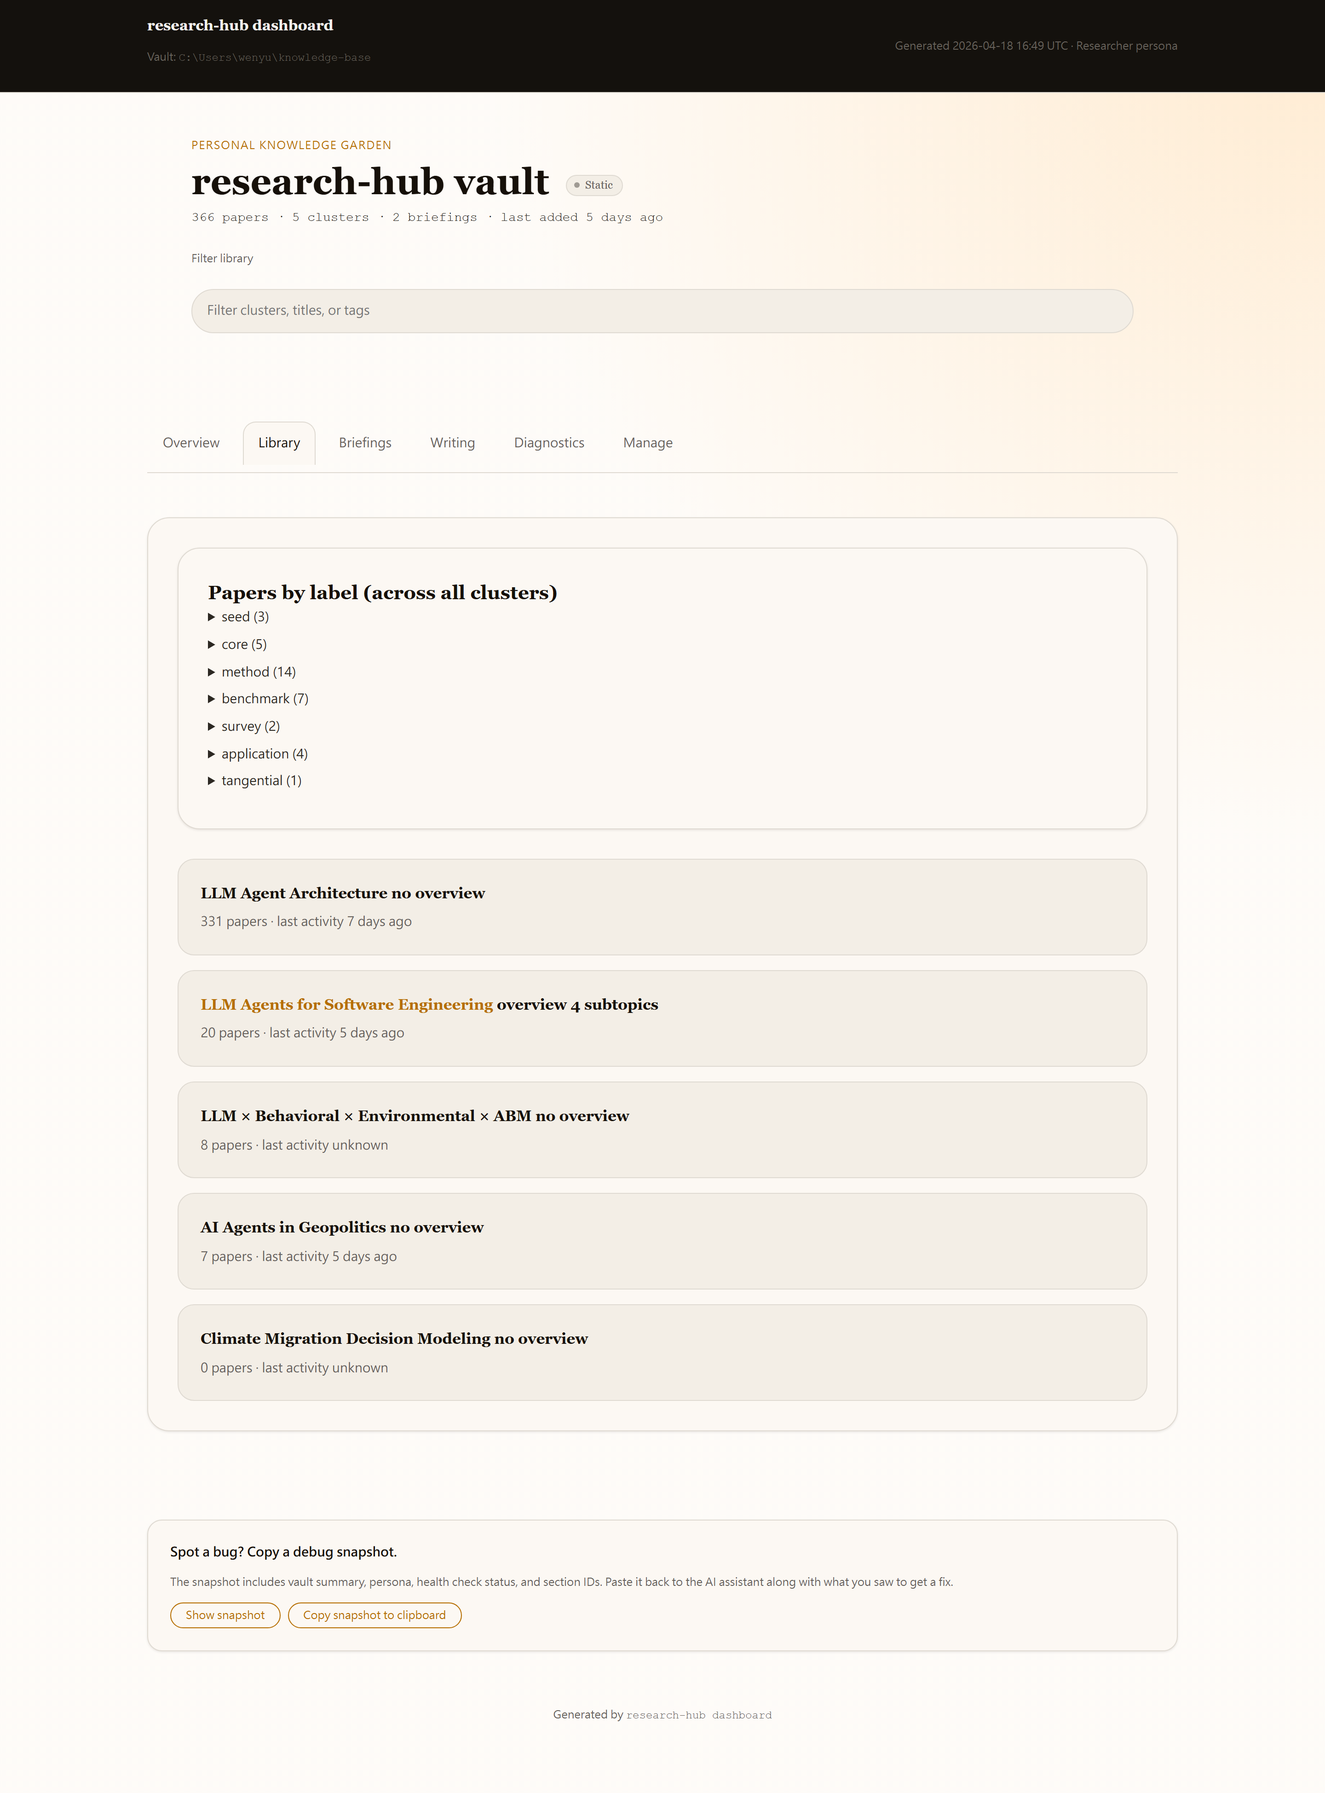
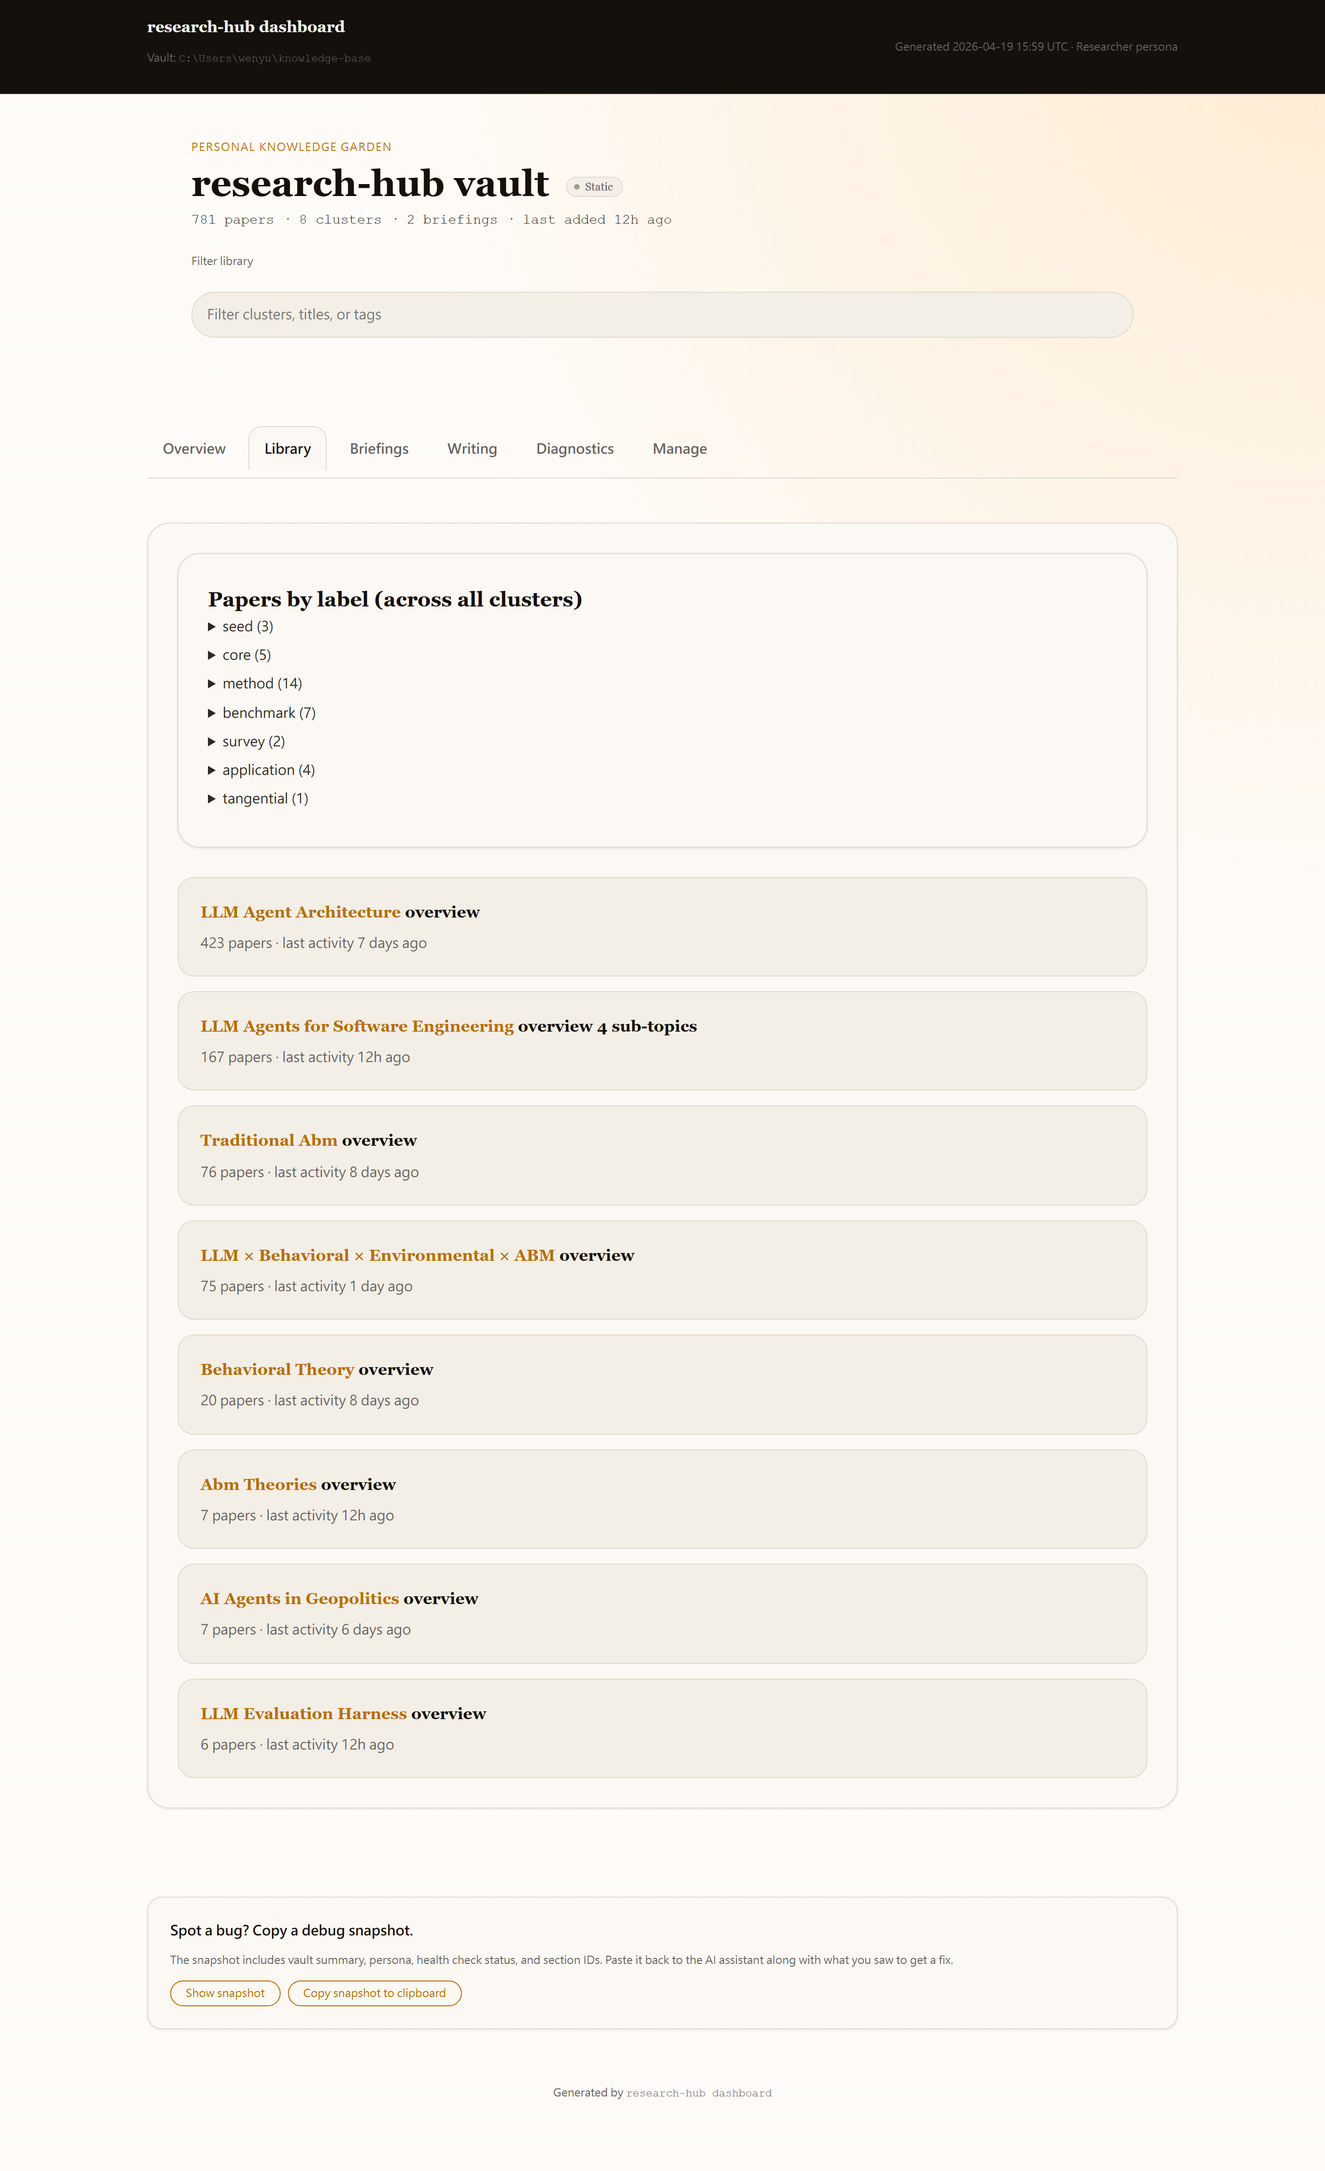
docs: redesign README with harness-engineering as hero example
Replaces generic 'what this is' opening with a concrete 10-minute story:
build the llm-evaluation-harness cluster (6 papers) from scratch,
generate 10 crystals + 14 entities + 12 claims + 7 methods, then query
via Claude Desktop MCP.

Refreshed:
- Lead with the story, not the abstract
- Moved 'crystals are not RAG' from v0.28 teaser to concrete evidence
  pointing at hub/llm-evaluation-harness/crystals/
- Added 'structured memory layer' as a first-class feature (v0.36 was
  hidden in architecture docs)
- Added 4-persona install table inline (was buried at bottom)
- Added cluster integrity + rebind as feature 5
- Added multi-OS CI badge
- 3 refreshed dashboard screenshots (researcher overview + analyst
  overview + library tab) showing the 8-cluster + harness-engineering
  state

Target audience: researcher who finds research-hub on PyPI/HN and gives
it 60 seconds to decide if it's real.

diff --git a/README.md b/README.md
@@ -1,42 +1,52 @@
 # research-hub
 
+> **Build your research cluster once. Ask AI about it thousands of times.**
 > Zotero + Obsidian + NotebookLM, wired together for AI agents.
 
 [![PyPI](https://img.shields.io/pypi/v/research-hub-pipeline.svg)](https://pypi.org/project/research-hub-pipeline/)
 [![Tests](https://img.shields.io/badge/tests-1423%20passing-brightgreen.svg)](docs/audit_v0.41.md)
 [![Python](https://img.shields.io/badge/python-3.10%2B-blue.svg)](pyproject.toml)
 [![License: MIT](https://img.shields.io/badge/license-MIT-green.svg)](LICENSE)
+[![CI: Linux · macOS · Windows](https://img.shields.io/badge/CI-Linux%20%C2%B7%20macOS%20%C2%B7%20Windows-blue)](.github/workflows/ci.yml)
 
 繁體中文說明 → [README.zh-TW.md](README.zh-TW.md)
 
-![Dashboard Overview](docs/images/dashboard-overview.png)
+![Dashboard Overview](docs/images/dashboard-overview-researcher.png)
 
 ---
 
-## What this is
+## The 10-minute story
 
-A CLI + MCP server that does three things at once:
+Say you want to get up to speed on **"harness engineering for LLM agents"** — a subfield that barely existed 6 months ago. Traditional workflow: search arXiv, skim abstracts, manually note key claims, fight Obsidian, occasionally wish you had a RAG. 2 hours.
 
-1. **Ingest** academic papers into Zotero (citations) + Obsidian (structured notes) + NotebookLM (briefings) — one command.
-2. **Organize** papers into clusters, sub-topics, and an Obsidian graph coloured by research label.
-3. **Serve** 60 MCP tools so Claude Code / Codex / any MCP-compatible AI can drive the whole thing.
+research-hub workflow:
 
-Built for PhD students and research teams who already use AI agents daily and don't want to context-switch between six tabs.
+```bash
+research-hub clusters new --query "LLM evaluation harness" --slug llm-evaluation-harness
+research-hub search "language model evaluation harness" --to-papers-input \
+    --cluster llm-evaluation-harness > papers.json
+research-hub ingest --cluster llm-evaluation-harness --no-verify
+```
 
-## Source code vs vault
+3 minutes later your vault has 6 key papers with structured notes. 2 more minutes: generate the AI summary layer (**crystals**) and the structured entity/claim registry (**memory**):
 
-research-hub has two separate locations on your computer. This is intentional:
+```bash
+research-hub crystal emit --cluster llm-evaluation-harness > prompt.md
+# (paste prompt to Claude/GPT, save response as crystals.json)
+research-hub crystal apply --cluster llm-evaluation-harness --scored crystals.json
 
-| | Source code | Vault |
-|---|---|---|
-| **What** | The Python package + CLI | Your research data |
-| **Where** | `site-packages/research_hub/` (managed by pip) | `~/knowledge-base/` (default, you choose during `init`) |
-| **Contains** | CLI, MCP server, dashboard renderer | Paper notes, Obsidian graph, crystals, Zotero sync |
-| **Shared?** | Yes — same package for every user | No — each user has their own vault |
+research-hub memory emit  --cluster llm-evaluation-harness > mem-prompt.md
+research-hub memory apply --cluster llm-evaluation-harness --scored memory.json
+```
 
-After `pip install`, run `research-hub init` to create your vault. If you already have an Obsidian vault, point `init` at it — research-hub adds its folders alongside your existing notes without overwriting anything.
+Now open Claude Desktop and ask:
 
-Run `research-hub where` at any time to see exactly where your config and vault live.
+> **You:** "What's the current SOTA in LLM evaluation harness?"
+> **Claude (via MCP):** calls `read_crystal("llm-evaluation-harness", "sota-and-open-problems")` → gets a pre-written 180-word answer with paper citations. **~1 KB read, 0 abstracts fetched at query time.**
+
+That pre-written answer is a **crystal**. You paid the reasoning cost once; every subsequent question is ~1 KB of cached analysis. See [`hub/llm-evaluation-harness/crystals/`](hub/llm-evaluation-harness/crystals/) in your vault for the 10 canonical Q&As generated above.
+
+---
 
 ## What makes it different
 
@@ -44,61 +54,74 @@ Run `research-hub where` at any time to see exactly where your config and vault 
 
 Every RAG system, including Karpathy's "LLM wiki", still assembles context at query time. research-hub's answer: **store the AI's reasoning, not the inputs**.
 
-For each research cluster, you generate ~10 canonical Q→A "crystals" once (via emit/apply, using any LLM you like). When an AI agent asks "what's the SOTA in X?", it reads a pre-written 100-word paragraph — not 20 paper abstracts.
+For each cluster you generate ~10 canonical Q→A crystals once, using any LLM you like. When an AI agent later asks "what's the SOTA in X?", it reads a pre-written paragraph — not 20 paper abstracts. **Token cost per query: ~1 KB (crystal read) vs ~30 KB (cluster digest). 30× compression.**
 
-```bash
-research-hub crystal emit --cluster llm-agents-software-engineering > prompt.md
-# Feed prompt.md to Claude/GPT/Gemini, save answer as crystals.json
-research-hub crystal apply --cluster llm-agents-software-engineering --scored crystals.json
-```
-
-Token cost per cluster-level query: **~1 KB** (crystal read) vs ~30 KB (cluster digest). 30× compression without losing quality, because the quality was pre-computed.
+Because the quality was pre-computed, it doesn't degrade at query time. See the [harness-engineering example crystals](hub/llm-evaluation-harness/crystals/) — one folder, 10 Q&As answering "what is this field?", "what are the main threads?", "where do experts disagree?", "what's SOTA?", etc.
 
 [→ Why this is not RAG](docs/anti-rag.md)
 
-### 2. Live dashboard with direct execution (v0.27)
+### 2. Structured memory layer — entities, claims, methods (v0.36)
+
+Crystals store prose. **Memory** stores the underlying structure: named entities (benchmarks, models, concepts), typed claims with confidence + supporting papers, and method taxonomies. For the harness cluster:
+
+```
+hub/llm-evaluation-harness/memory.json
+├── 14 entities  (vla-eval, SafeHarness, M*, LIBERO, SEC-bench, ...)
+├── 12 claims    ("Harness is locus of progress", "Specialized beats generic +22%", ...)
+└── 7 methods    (reflective code evolution, lifecycle-integrated defense, ...)
+```
+
+AI agents query entities via `list_entities`, claims via `list_claims(min_confidence="high")`, methods via `list_methods`. No RAG over prose — structured lookup over structured data.
+
+### 3. 4 personas, 1 codebase, dashboard adapts (v0.38)
+
+Same vault, 4 rendered dashboards:
+
+| Persona | Install | Dashboard vocabulary | Hidden tabs |
+|---|---|---|---|
+| **Researcher** (PhD STEM, Zotero) | `pip install research-hub-pipeline[playwright,secrets]` | Cluster / Crystal / Paper / Citation graph | (none) |
+| **Humanities** (Zotero, quote-heavy) | `pip install research-hub-pipeline[playwright,secrets]` | Theme / Synthesis / Source | (none) |
+| **Analyst** (industry, no Zotero) | `pip install research-hub-pipeline[import,secrets]` | Topic / AI Brief / Document | Diagnostics, Bind-Zotero |
+| **Internal KM** (lab / company) | `pip install research-hub-pipeline[import,secrets]` | Project area / AI Brief / Document | Diagnostics, Bind-Zotero |
+
+Side-by-side screenshots: [`docs/personas.md`](docs/personas.md). [Your first 10 minutes guide →](docs/first-10-minutes.md)
+
+### 4. Live dashboard with direct execution (v0.27)
 
 ```bash
 research-hub serve --dashboard
 ```
 
-Opens a localhost HTTP dashboard at `http://127.0.0.1:8765/`. Every Manage-tab button **directly executes** the CLI command instead of copying to clipboard. Vault changes push to the browser via Server-Sent Events. Fallback to static clipboard mode when the server isn't running.
+Localhost HTTP dashboard at `http://127.0.0.1:8765/`. Every Manage-tab button **directly executes** the CLI command. Vault changes push via Server-Sent Events. Fallback to static clipboard mode when the server isn't running.
 
-![Live dashboard](docs/images/dashboard-manage-live.png)
+### 5. Cluster integrity + 100% orphan coverage (v0.37 + v0.39)
 
-### 3. Obsidian graph auto-coloured by label (v0.27)
-
-```bash
-research-hub vault graph-colors --refresh
-```
-
-Writes 14 colour groups to `.obsidian/graph.json`: 5 per cluster path + 9 per paper label (`seed`, `core`, `method`, `benchmark`, `survey`, `application`, `tangential`, `deprecated`, `archived`). Every `research-hub dashboard` run auto-refreshes them. Open Obsidian Graph View — your vault is visually structured by meaning, not just file tree.
-
-![Obsidian Graph coloured by label](docs/images/obsidian-graph.png)
-
-### 4. Sub-topic-aware Library + citation-graph cluster split (v0.27)
-
-Big clusters (331 papers?) don't render as a flat list anymore. They're grouped by sub-topic, each expandable. And if your cluster has no sub-topics yet:
+Papers drift, rebind v2 catches it. On the maintainer's 1063-orphan vault: 33% → **100% coverage** via 8-heuristic chain + auto-create-from-folder proposals.
 
 ```bash
-research-hub clusters analyze --cluster my-big-cluster --split-suggestion
+research-hub doctor                       # catches 12+ classes of drift
+research-hub clusters rebind --emit       # proposes 80%+ assignments
+research-hub clusters rebind --apply report.md --auto-create-new
 ```
 
-Uses Semantic Scholar citation graph + networkx community detection to suggest 3-8 coherent sub-topics. Writes a markdown report you review before running `topic apply-assignments`.
-
-![Library tab with sub-topics](docs/images/dashboard-library-subtopic.png)
+[→ 6 failure modes × 4 personas mitigation matrix](docs/cluster-integrity.md)
 
 ---
 
 ## Install
 
 ```bash
-pip install research-hub-pipeline
-research-hub init              # interactive config + vault layout
+# Researcher / Humanities (use Zotero + NotebookLM)
+pip install research-hub-pipeline[playwright,secrets]
+
+# Analyst / Internal KM (no Zotero, import local files)
+pip install research-hub-pipeline[import,secrets]
+
+research-hub init              # 4-option interactive persona prompt
 research-hub serve --dashboard # opens browser
 ```
 
-Python 3.10+. No OpenAI/Anthropic API key required — research-hub is provider-agnostic (all AI generation uses emit/apply pattern; you feed prompts to your own AI).
+Python 3.10+. **No OpenAI/Anthropic API key required** — research-hub is provider-agnostic (all AI generation uses emit/apply pattern; you feed prompts to your own AI).
 
 ## For Claude Code / Claude Desktop users
 
@@ -115,34 +138,15 @@ Add to `claude_desktop_config.json`:
 }
 ```
 
+60 MCP tools cover: paper ingest, cluster CRUD, labels, quotes, draft composition, citation graph, NotebookLM, crystal generation, fit-check, autofill, cluster memory, cluster rebind workflows.
+
 Then talk to Claude:
 
-> "Claude, add arxiv 2310.06770 to a new cluster called LLM-SE"
-> "Claude, generate crystals for the LLM-SE cluster"
-> "Claude, what's this cluster about?" → Claude calls `list_crystals` + `read_crystal` → gets the pre-written 100-word answer
+> "Claude, what's in my llm-evaluation-harness cluster?" → `read_crystal("what-is-this-field")` → 180-word answer
+> "Claude, which claims have high confidence?" → `list_claims(cluster="llm-evaluation-harness", min_confidence="high")` → 10 structured claims with paper refs
+> "Claude, add arxiv 2310.06770 to LLM-SE cluster" → `add_paper(...)` → Zotero + Obsidian + NotebookLM entries
 
-60 MCP tools cover: paper ingest, cluster CRUD, labels, quotes, draft composition, citation graph, NotebookLM, crystal generation, fit-check, autofill, cluster memory, and cluster rebind workflows.
-
-## Quickstart (5 commands)
-
-```bash
-# 1. Initialize vault
-research-hub init
-
-# 2. Ingest one paper
-research-hub add 10.48550/arxiv.2310.06770 --cluster llm-agents
-
-# 3. Open live dashboard
-research-hub serve --dashboard
-
-# 4. Generate crystals once you have a few papers
-research-hub crystal emit --cluster llm-agents > prompt.md
-# (feed prompt.md to your AI, save response as crystals.json)
-research-hub crystal apply --cluster llm-agents --scored crystals.json
-
-# 5. Ask your AI questions — it reads crystals, not papers
-# (via Claude Desktop MCP, or any MCP-compatible client)
-```
+---
 
 ## Status
 
@@ -155,17 +159,17 @@ research-hub crystal apply --cluster llm-agents --scored crystals.json
 
 ## Architecture docs
 
-- [MCP tools reference](docs/mcp-tools.md) — all 50+ tools categorized + signatures
+- [Your first 10 minutes](docs/first-10-minutes.md) — guided tour for each of the 4 personas
+- [User personas](docs/personas.md) — 4 persona profiles with per-persona feature matrix
+- [Cluster integrity](docs/cluster-integrity.md) — 6 failure modes + mitigation matrix across all 4 personas
+- [MCP tools reference](docs/mcp-tools.md) — all 60 tools categorized + signatures
 - [Example Claude Desktop flow](docs/example-claude-mcp-flow.md) — worked example: ingest → crystallize → query
 - [Import folder](docs/import-folder.md) — local file ingest for analyst persona (PDF/DOCX/MD/TXT/URL)
 - [Anti-RAG crystals](docs/anti-rag.md) — why pre-computed Q→A beats retrieval
 - [Upgrade guide](UPGRADE.md) — migrating from older versions
-- [Your first 10 minutes](docs/first-10-minutes.md) — guided tour for each of the 4 personas
-- [User personas](docs/personas.md) — 4 persona profiles (PhD STEM / industry / humanities / internal KM) with per-persona feature matrix
-- [Cluster integrity](docs/cluster-integrity.md) — 6 failure modes + mitigation matrix across all 4 personas
-- [Task-level workflows](docs/task-workflows.md) — v0.33+ 5 MCP wrappers (ask/brief/sync/compose/collect) that collapse 3-4 call sequences into 1
-- [Screenshot workflow](docs/screenshot-workflow.md) — re-render any dashboard tab via `dashboard --screenshot` CLI
-- [Audit reports](docs/) — `audit_v0.26.md` … `audit_v0.34.md`
+- [Task-level workflows](docs/task-workflows.md) — v0.33+ 5 MCP wrappers (ask/brief/sync/compose/collect)
+- [Screenshot workflow](docs/screenshot-workflow.md) — re-render any dashboard tab
+- [Audit reports](docs/) — `audit_v0.26.md` … `audit_v0.41.md`
 - [NotebookLM setup](docs/notebooklm.md) — CDP attach flow + troubleshooting
 - [Papers input schema](docs/papers_input_schema.md) — ingestion pipeline reference
 
@@ -173,29 +177,19 @@ research-hub crystal apply --cluster llm-agents --scored crystals.json
 
 | Stage | Command | What it does |
 |---|---|---|
-| **Init** | `init` / `doctor` | First-time config + health check |
+| **Init** | `init` / `doctor` | First-time config + health check (doctor has 12+ checks, `--autofix` for mechanical backfills) |
 | **Find** | `search` / `verify` / `discover new` | Multi-backend paper search + DOI resolution + AI-scored discovery |
-| **Ingest** | `add` / `ingest` | One-shot or bulk paper ingest into Zotero + Obsidian |
-| **Organize** | `clusters new/list/show/bind/merge/split/rename/delete` | Cluster CRUD |
+| **Ingest** | `add` / `ingest` / `import-folder` | One-shot or bulk paper ingest into Zotero + Obsidian |
+| **Organize** | `clusters new/list/show/bind/merge/split/rename/delete/rebind/scaffold-missing` | Cluster CRUD + 8-heuristic rebind + hub scaffolding |
 | **Topic** | `topic scaffold/propose/assign/build` | Sub-topic notes from `subtopics:` frontmatter |
-| **Label** | `label` / `find --label` / `paper prune` | Canonical label vocabulary (seed/core/method/...) |
+| **Label** | `label` / `find --label` / `paper prune` / `paper lookup-doi` | Canonical label vocabulary + Crossref DOI backfill |
 | **Crystal** | `crystal emit/apply/list/read/check` | Pre-computed canonical Q→A answers |
+| **Memory** | `memory emit/apply/list/read` | Structured entities/claims/methods registry |
 | **Analyze** | `clusters analyze --split-suggestion` | Citation-graph community detection for big clusters |
 | **Sync** | `sync status` / `pipeline repair` | Detect + repair Zotero ↔ Obsidian drift |
 | **Dashboard** | `dashboard` / `serve --dashboard` / `vault graph-colors` | Static HTML or live HTTP server + auto-refresh Obsidian graph |
 | **NotebookLM** | `notebooklm bundle/upload/generate/download` | Browser-automated NLM flows (CDP attach) |
 | **Write** | `quote` / `compose-draft` / `cite` | Quote capture, markdown draft assembly, BibTeX export |
-
-## Personas + install commands
-
-| Persona | Install | Init |
-|---|---|---|
-| **Researcher** (PhD STEM, default) | `pip install research-hub-pipeline[playwright,secrets]` | `research-hub init` |
-| **Humanities** (quote-heavy, uses Zotero) | `pip install research-hub-pipeline[playwright,secrets]` | `research-hub init --persona humanities` |
-| **Analyst** (industry, no Zotero) | `pip install research-hub-pipeline[import,secrets]` | `research-hub init --persona analyst` |
-| **Internal KM** (lab/company, mixed file types) | `pip install research-hub-pipeline[import,secrets]` | `research-hub init --persona internal` |
-
-All four personas share the same dashboard, MCP server, crystal system, and cluster integrity tools. The dashboard auto-adapts vocabulary and hides irrelevant features per persona (see `docs/personas.md`).
 
 ## For developers
 
@@ -205,6 +199,8 @@ cd research-hub
 pip install -e '.[dev,playwright]'
 python -m pytest -q  # 1423 passing
 ```
+
+Contributing: see [CONTRIBUTING.md](CONTRIBUTING.md). Reporting security issues: see [SECURITY.md](.github/SECURITY.md).
 
 Package name on PyPI: **research-hub-pipeline**
 CLI entry point: **research-hub**
